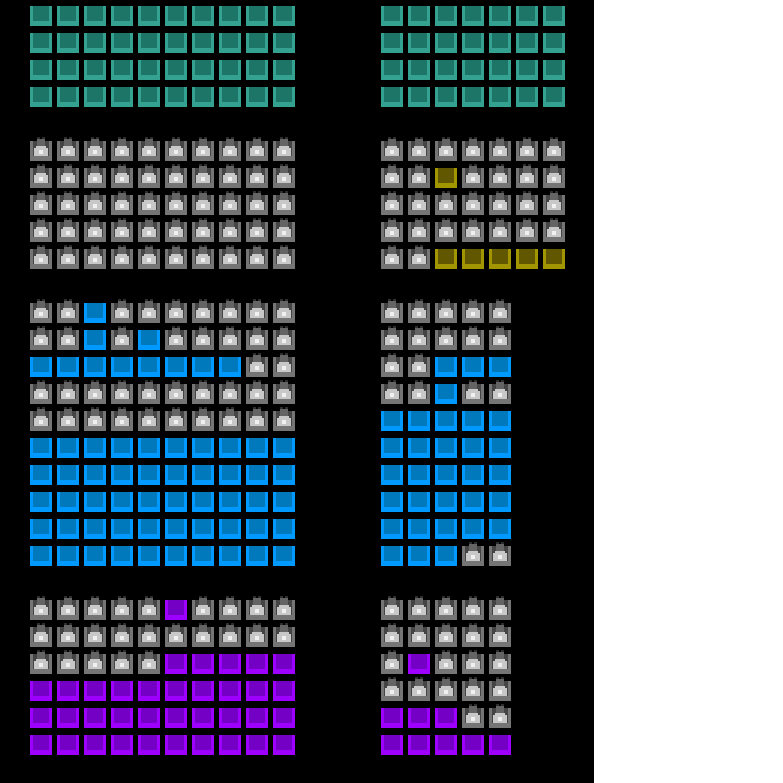
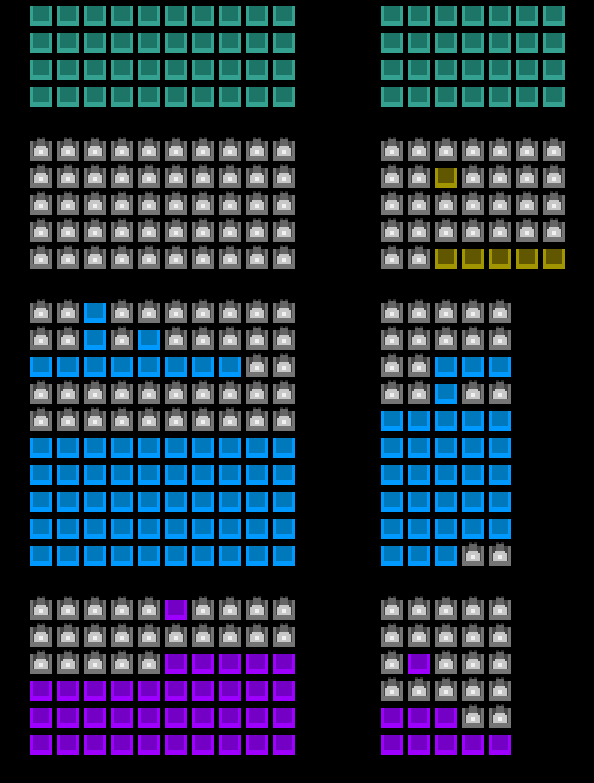
diffuse kan nå være andre former enn kvadrat, det gjør at displacement og diffuse alligner endelig

diff --git a/CREATE THE MAPS/Diffuse Generator.py b/CREATE THE MAPS/Diffuse Generator.py
@@ -1,7 +1,6 @@
 import pygame
 import openpyxl
 import os
-import pandas as pd
 
 # Step 1: Get data from Excel file
 def read_excel(file_path):
@@ -28,12 +27,6 @@ def show_images_pygame(matrix, save_image=False, file_name="diffuse_finaltest.pn
     # Calculate screen size based on matrix size and image size
     screen_width = cols * image_size
     screen_height = rows * image_size
-
-    # Ensure that the screen dimensions are square
-    if screen_width != screen_height:
-        max_size = max(screen_width, screen_height)
-        screen_width = max_size
-        screen_height = max_size
 
     screen = pygame.display.set_mode((int(screen_width), int(screen_height)))
     pygame.display.set_caption("Images from Excel")

diff --git a/CREATE THE MAPS/Displacement_Generato.py b/CREATE THE MAPS/Displacement_Generato.py
@@ -34,7 +34,6 @@ def show_images_pygame(matrix, save_image=False, file_name="Displacement_finalte
 
     # Create a new surface to blit images onto
     surface = pygame.Surface((cols * image_size, rows * image_size))
-    print(matrix)
     for i, row in enumerate(matrix):
         for j, num in enumerate(row):
             if num==0:
